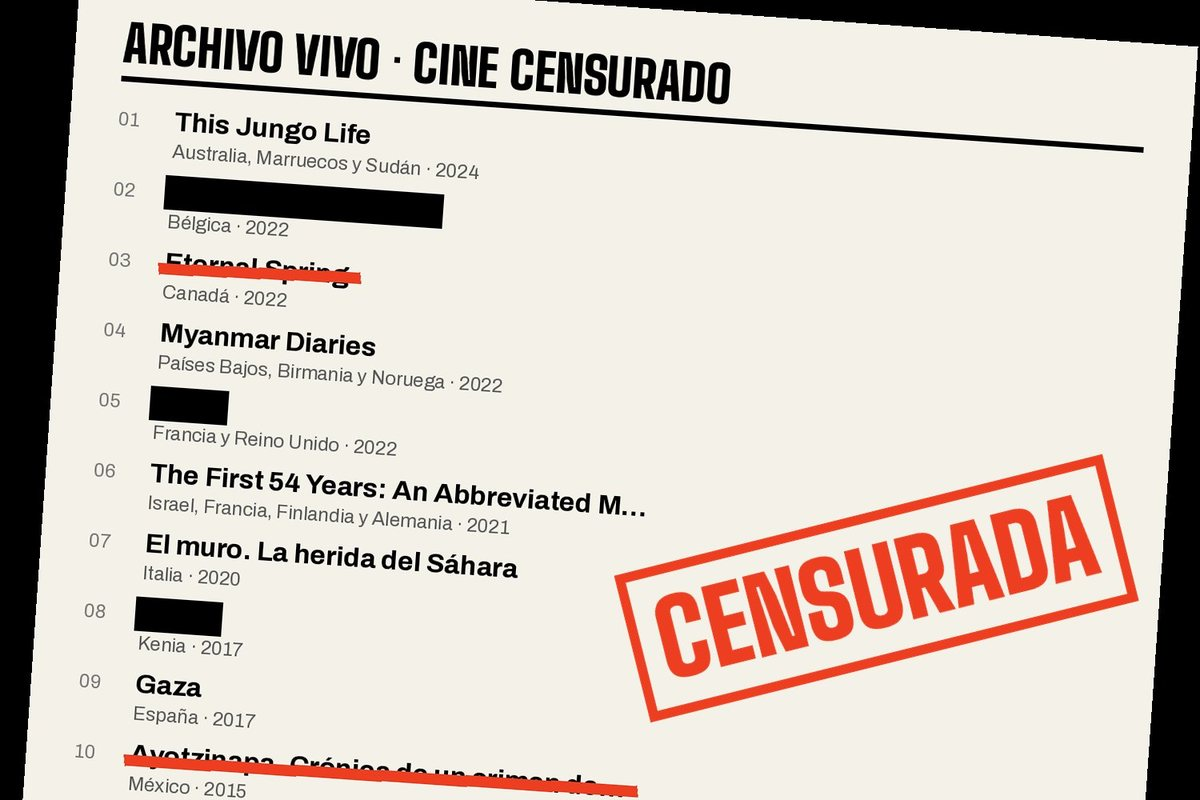
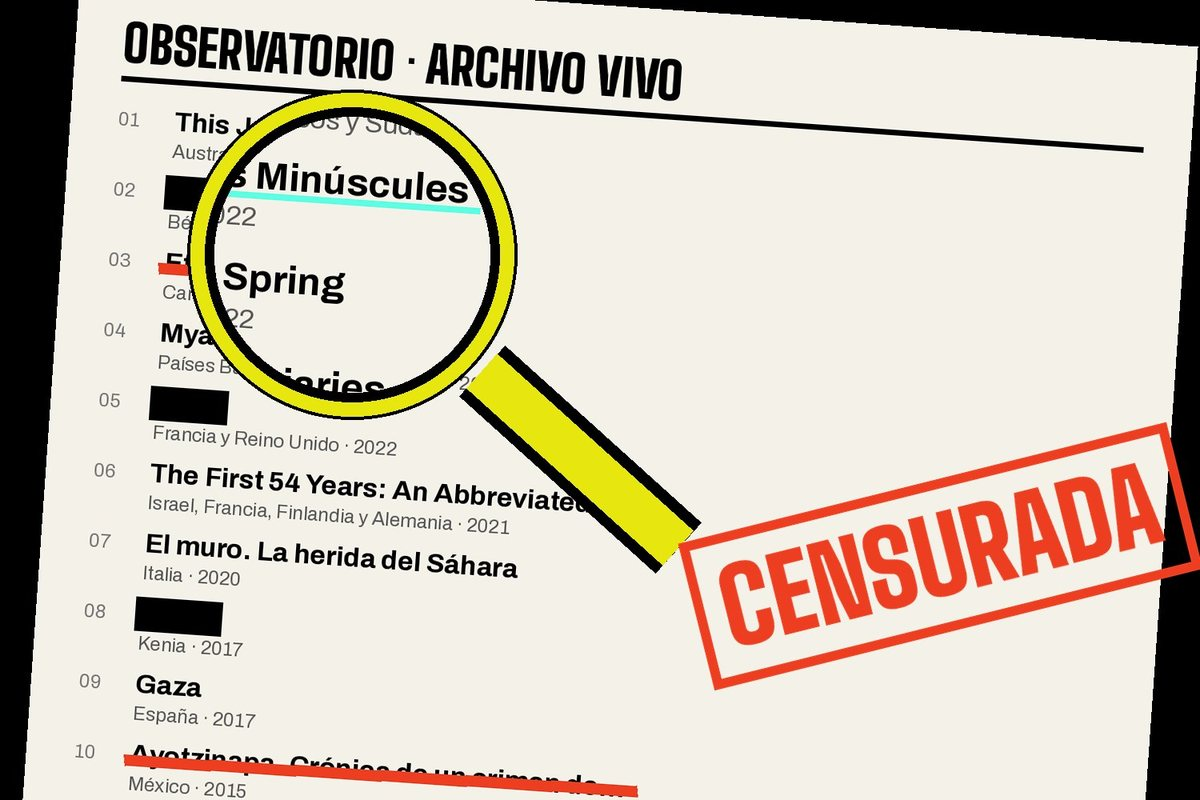
Imagen del Observatorio: lupa que destapa un título censurado
Claude-Session: https://claude.ai/code/session_01WcrHSsBSMfmdbyCiVbB7na

Changed region(s): [[0.0925, 0.0312, 1.0, 0.9062]]

diff --git a/index.html b/index.html
@@ -87,7 +87,7 @@
           <span class="tarjeta-texto">Lo que censuran, lo liberamos: muestras, Las Tratan, talleres y presencia en festivales de otros países.</span>
         </a>
         <a class="tarjeta" href="observatorio.html">
-          <img src="img/fotos/observatorio-archivo.jpg" alt="Una hoja del Archivo vivo con títulos de películas tachados y un sello rojo de «Censurada»" loading="lazy">
+          <img src="img/fotos/observatorio-archivo.jpg?v=2" alt="Una lupa sobre una hoja del Observatorio: deja ver un título tachado, junto a un sello rojo de «Censurada»" loading="lazy">
           <span class="tarjeta-titulo">Observatorio</span>
           <span class="tarjeta-texto">El Archivo vivo: películas censuradas, investigadas y puestas de nuevo a circular.</span>
         </a>
